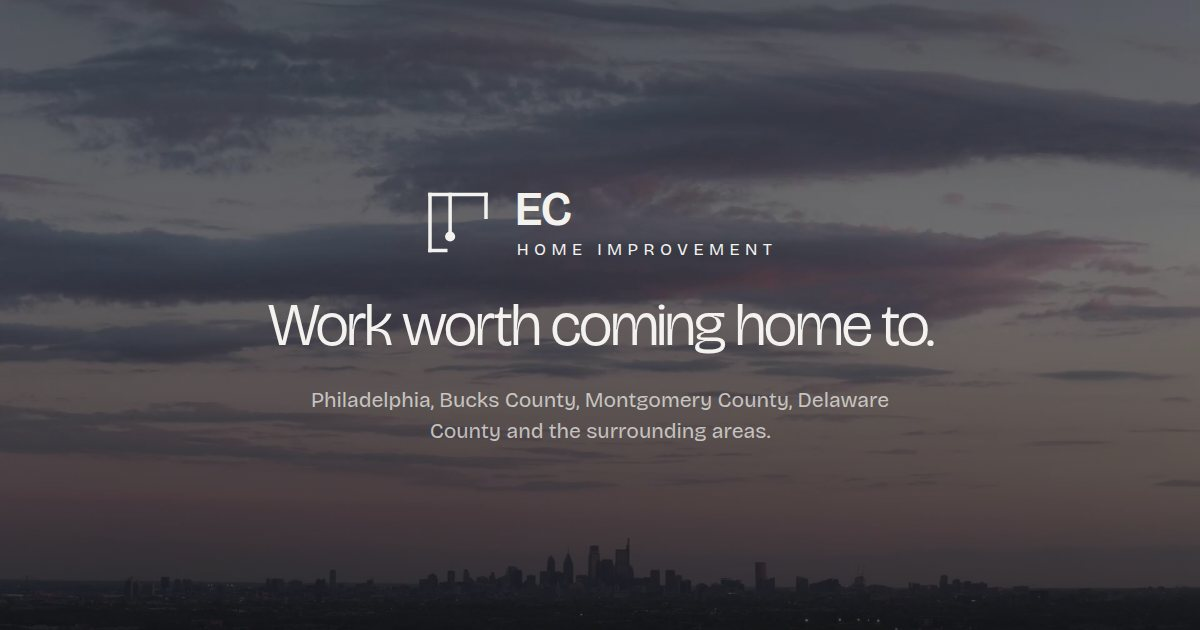
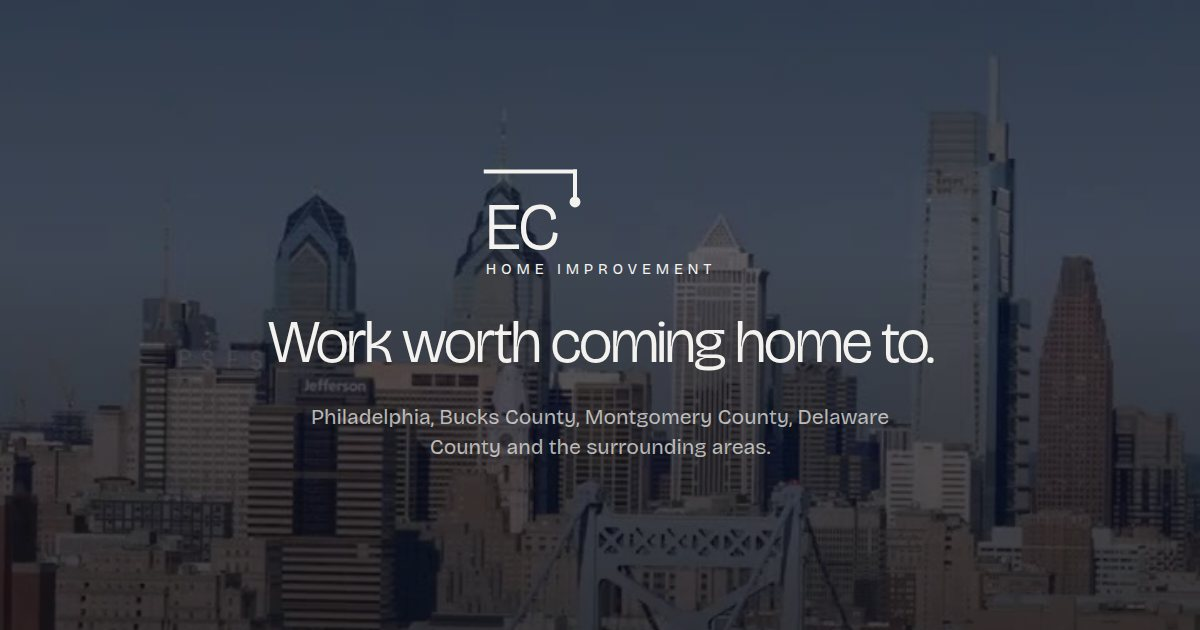
Share image regenerated with the EC mark over the daytime skyline
Claude-Session: https://claude.ai/code/session_01D2brnAYeQc1zGDMPRtv4X2

diff --git a/scripts/og/og.html b/scripts/og/og.html
@@ -1,21 +1,21 @@
 <!doctype html><meta charset="utf-8"><style>
-@font-face{font-family:B;src:url(../../.next/dev/static/media/BRICOLAGE.woff2);font-weight:200 800}
-html,body{margin:0}body{width:1200px;height:630px;position:relative;overflow:hidden;background:#141414;font-family:B,sans-serif;color:#F3F2EF;font-optical-sizing:auto}
-img.bg{position:absolute;inset:0;width:100%;height:100%;object-fit:cover;object-position:50% 62%;filter:contrast(1.08) saturate(1.12) brightness(.72)}
+@font-face{font-family:B;src:url(../../.next/dev/static/media/2aa781f449db21e3-s.p.1pg2nifvadz06.woff2);font-weight:200 800}
+html,body{margin:0}body{width:1200px;height:630px;position:relative;overflow:hidden;background:#242424;font-family:B,sans-serif;color:#F3F2EF;font-optical-sizing:auto}
+img.bg{position:absolute;inset:0;width:100%;height:100%;object-fit:cover;object-position:50% 40%;filter:contrast(1.1) saturate(1.1) brightness(.62)}
 .veil{position:absolute;inset:0;background:linear-gradient(180deg,rgba(13,15,19,.32),rgba(13,15,19,.18) 40%,rgba(13,15,19,.55))}
 .c{position:absolute;inset:0;display:flex;flex-direction:column;align-items:center;justify-content:center;gap:0}
-.mark{display:flex;align-items:center;gap:22px;margin-bottom:34px}
-.mark svg{width:70px;height:77px}
+.mark{display:flex;flex-direction:column;align-items:flex-start;gap:8px;margin-bottom:34px}
+.mark svg{width:98px;height:84px;overflow:visible}
 .mark .t{display:flex;flex-direction:column;gap:6px}
 .mark .ec{font-size:48px;font-weight:600;letter-spacing:-.02em;line-height:1}
-.mark .n{font-size:17px;letter-spacing:.32em;font-weight:400;text-transform:uppercase;padding-left:2px}
+.mark .n{font-size:15px;letter-spacing:.32em;font-weight:400;text-transform:uppercase;padding-left:2px}
 h1{margin:0 0 30px;font-size:60px;font-weight:300;letter-spacing:-.035em;line-height:1;font-variation-settings:'opsz' 96}
 p{margin:0;font-size:21px;line-height:1.45;color:rgba(243,242,239,.72);text-align:center;max-width:600px;font-variation-settings:'opsz' 14}
 </style>
-<img class="bg" src="../../public/video/hero-poster.jpg"><div class="veil"></div>
+<img class="bg" src="../../public/video/bridge-poster.jpg"><div class="veil"></div>
 <div class="c">
- <div class="mark"><svg viewBox="0 0 40 44"><g fill="none" stroke="#F3F2EF" stroke-width="2" stroke-linecap="square"><path d="M4 6 H36"/><path d="M4 6 V38"/><path d="M4 38 H13"/><path d="M36 6 V19"/><path d="M15.5 6 V27.3"/></g><circle cx="15.5" cy="30" r="2.9" fill="#F3F2EF"/></svg>
-  <div class="t"><span class="ec">EC</span><span class="n">Home Improvement</span></div></div>
+ <div class="mark"><svg viewBox="0 0 56 48"><g fill="none" stroke="#F3F2EF" stroke-width="2.3" stroke-linecap="square"><path d="M1 2 H52"/><path d="M52 2 V16"/></g><circle cx="52" cy="19.4" r="3.1" fill="#F3F2EF"/><text x="0" y="46.5" font-size="38" font-weight="300" letter-spacing="-1.7" fill="#F3F2EF" font-family="B">EC</text></svg>
+  <span class="n">Home Improvement</span></div>
  <h1>Work worth coming home to.</h1>
  <p>Philadelphia, Bucks County, Montgomery County, Delaware County and the surrounding areas.</p>
 </div>

diff --git a/CLAUDE.md b/CLAUDE.md
@@ -314,8 +314,11 @@ lockup text beside it is only the tracked-out "Home Improvement", stacked beneat
 are `<text>` so they inherit the font and `currentColor`, which is what keeps the difference
 blend working. `app/icon.svg` draws the same mark with the letters as paths (no webfont in a
 favicon). The Google listing carries it as `public/gbp-logo.png`, 720px on ink, rendered from
-`gbp/logo-a.html` with the real face. `public/og.jpg` still shows the old lockup; regenerate it
-with `scripts/og/` when convenient.
+`gbp/logo-a.html` with the real face. `public/og.jpg` was regenerated Sep 5 with this mark over
+the bridge poster (`scripts/og/og.html` + `shoot.js`; the font url points at the `-s.p.` woff2
+under `.next/dev/static/media`, which needs `next dev` to have run once). Eric spotted it when
+he texted the link and the card still carried the old lockup. Note iMessage caches a link's
+card per URL, so a resend can show the old one for a while.
 
 ## The photo pages (`/kitchens`, `/bathrooms`, `/painting`)
 
